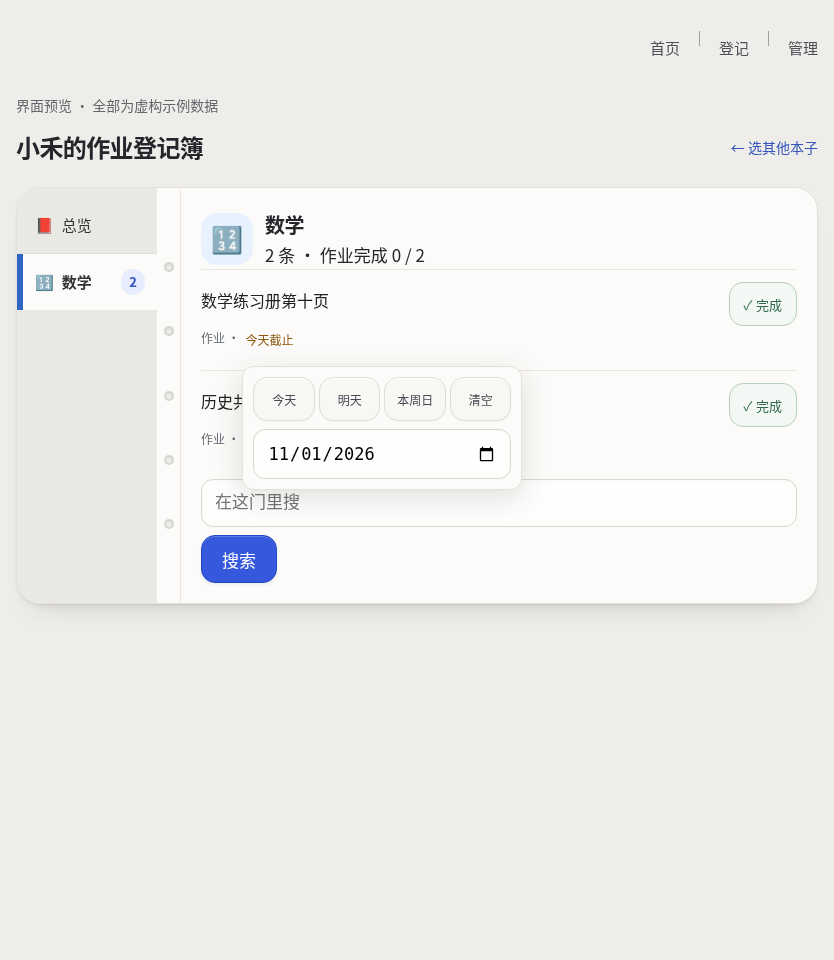
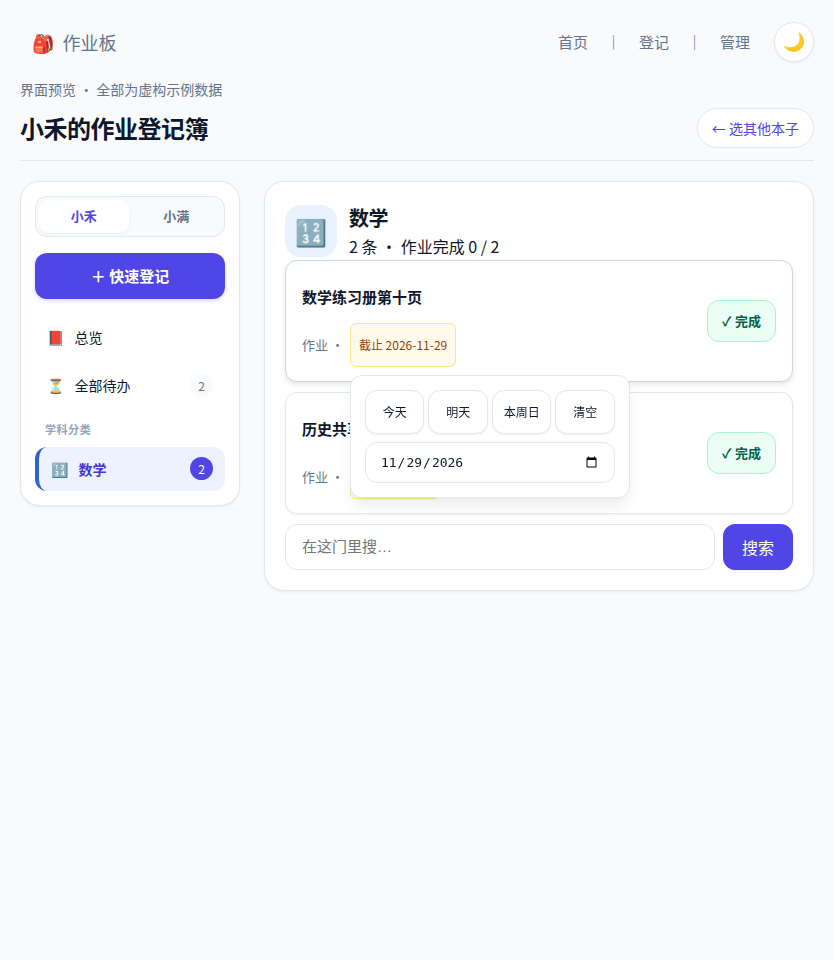
Address review: drawer from title, progressive quick-add, compact chrome
- Detail drawer opens from the row title; Ctrl/Cmd/Shift click and
  no-JS follow the plain link to the detail page. The separate
  preview button is gone.
- Quick-add is a plain link to /register; JS intercepts it to open
  the dialog, so it works without JS.
- Quick-add defaults to the subject of the current subject page; on
  the overview it reuses the last subject picked (localStorage).
- Brand moved from the sidebar to the top bar; the overview
  subject-links card is removed (the sidebar already counts them);
  on mobile the pill bar sticks to the top while the brand bar
  scrolls away.
- theme-color is split per prefers-color-scheme (light #f8fafc,
  dark #0b0f19).
- Restore 44px touch targets the Bento restyle shrank (row title,
  quick-due summary, due preset buttons) and stop the no-JS
  quick-due form overflowing at 320px; update browser_child_edit
  for the drawer flow.
- Re-shoot docs/previews with the new UI.

diff --git a/static/paper.css b/static/paper.css
@@ -194,14 +194,14 @@ button:focus-visible, a:focus-visible, input:focus-visible, select:focus-visible
 .topnav {
   display: flex;
   align-items: center;
-  justify-content: flex-end;
+  justify-content: space-between;
   gap: 12px;
   padding: 6px 0 16px;
   font-size: 15px;
   color: var(--text-muted);
 }
 .topnav-brand {
-  display: none;
+  display: flex;
   align-items: center;
   gap: 8px;
   font-size: 18px;
@@ -216,6 +216,7 @@ button:focus-visible, a:focus-visible, input:focus-visible, select:focus-visible
   display: flex;
   align-items: center;
   gap: 6px;
+  margin-left: auto;
 }
 .topnav a {
   display: inline-flex;
@@ -431,25 +432,6 @@ button:focus-visible, a:focus-visible, input:focus-visible, select:focus-visible
   position: sticky;
   top: 16px;
 }
-.sidebar-brand {
-  margin-bottom: 12px;
-  padding: 4px 6px;
-}
-.sidebar-brand-link {
-  display: flex;
-  align-items: center;
-  gap: 8px;
-  font-size: 17px;
-  font-weight: 700;
-  color: var(--text);
-  text-decoration: none;
-}
-.sidebar-brand-link:hover {
-  color: var(--primary);
-}
-.sidebar-brand-icon {
-  font-size: 20px;
-}
 .sidebar-child-switcher {
   display: flex;
   background: var(--bg);
@@ -631,7 +613,7 @@ button:focus-visible, a:focus-visible, input:focus-visible, select:focus-visible
 }
 .row .t { flex: 1; min-width: 0; }
 .row .t .item-title {
-  min-height: 32px;
+  min-height: 44px;
   display: inline-flex;
   align-items: center;
   font-size: 15px;
@@ -669,26 +651,6 @@ button:focus-visible, a:focus-visible, input:focus-visible, select:focus-visible
   color: #fff;
   border-color: var(--success);
 }
-.row .item-preview-btn {
-  display: inline-flex;
-  align-items: center;
-  justify-content: center;
-  min-height: 26px;
-  padding: 1px 8px;
-  font-size: 12px;
-  font-weight: 500;
-  border-radius: 6px;
-  border: 1px solid var(--card-border);
-  background: var(--bg);
-  color: var(--text-muted);
-  cursor: pointer;
-  transition: all 0.15s ease;
-}
-.row .item-preview-btn:hover {
-  background: var(--primary-light);
-  color: var(--primary);
-  border-color: var(--primary-border);
-}
 .row.is-done { opacity: .6; }
 .row.is-done .t a { text-decoration: line-through; }
 
@@ -702,7 +664,7 @@ button:focus-visible, a:focus-visible, input:focus-visible, select:focus-visible
 .quick-due > summary {
   display: inline-flex;
   align-items: center;
-  min-height: 28px;
+  min-height: 44px; /* 44px touch target, as before the restyle */
   line-height: 1.4;
   padding: 2px 8px;
   border-radius: 6px;
@@ -731,8 +693,10 @@ button:focus-visible, a:focus-visible, input:focus-visible, select:focus-visible
   box-sizing: border-box;
 }
 .js-quick-due .quick-due-form { position: absolute; }
+/* Without JS the form stays in flow: cap it at its container instead of 280px. */
+.quick-due:not(.js-quick-due) .quick-due-form { width: auto; max-width: 100%; }
 .due-presets { display: flex; gap: 4px; flex-wrap: wrap; margin-bottom: 8px; }
-.due-presets button { flex: 1; min-width: 48px; min-height: 36px; padding: 0 6px; font-size: 12px; }
+.due-presets button { flex: 1; min-width: 48px; min-height: 44px; padding: 0 6px; font-size: 12px; }
 .due-custom { display: flex; gap: 6px; align-items: center; }
 .due-custom input { flex: 1; min-height: 40px; margin: 0; font-size: 13px; }
 .js-due .due-save { display: none; }
@@ -1245,7 +1209,6 @@ dialog:not([open]) {
   .topnav-brand { display: flex; }
   .topnav-links { display: none; }
   .binder { flex-direction: column; gap: 14px; }
-  .sidebar-brand { display: none; }
   .sidebar-child-switcher { margin-bottom: 0; flex-shrink: 0; }
   .sidebar-child-tab { white-space: nowrap; padding: 6px 12px; }
   .binder-tabs {
@@ -1253,10 +1216,12 @@ dialog:not([open]) {
     overflow-x: auto;
     width: 100%;
     padding: 6px 4px;
-    background: transparent;
+    background: var(--bg);
     border: 0;
     box-shadow: none;
-    position: static;
+    position: sticky;
+    top: 0;
+    z-index: 80;
     scrollbar-width: none;
   }
   .binder-tabs::-webkit-scrollbar { display: none; }

diff --git a/static/paper.js b/static/paper.js
@@ -178,11 +178,28 @@ if (typeof HTMLDialogElement !== 'undefined' && typeof HTMLDialogElement.prototy
 }
 
 // Global Quick Add Modal
+// The trigger is a plain link to /register; with JS it opens the dialog instead.
 (() => {
   const dialog = document.getElementById('quick-add-dialog');
   if (!dialog) return;
-  document.querySelectorAll('[data-open-quick-add]').forEach(btn => {
-    btn.addEventListener('click', () => {
+  const subjectRadios = [...dialog.querySelectorAll('input[name="subject"]')];
+  function applySavedSubject() {
+    // A subject page already picked its subject; only the overview reuses the last one.
+    if (dialog.dataset.currentSubject) return;
+    let saved = null;
+    try { saved = localStorage.getItem('sb-qa-subject'); } catch (_) {}
+    if (!saved) return;
+    const match = subjectRadios.find(radio => radio.value === saved);
+    if (match) match.checked = true;
+  }
+  subjectRadios.forEach(radio => radio.addEventListener('change', () => {
+    try { localStorage.setItem('sb-qa-subject', radio.value); } catch (_) {}
+  }));
+  document.querySelectorAll('[data-open-quick-add]').forEach(trigger => {
+    trigger.addEventListener('click', event => {
+      if (typeof dialog.showModal !== 'function') return; // No dialog support: follow the link.
+      event.preventDefault();
+      applySavedSubject();
       dialog.showModal();
       const titleInput = dialog.querySelector('#qa-title');
       if (titleInput) titleInput.focus();
@@ -199,14 +216,16 @@ if (typeof HTMLDialogElement !== 'undefined' && typeof HTMLDialogElement.prototy
 })();
 
 // Item Detail Drawer
+// A plain title click opens the drawer; Ctrl/Cmd/Shift clicks and no JS follow the link.
 (() => {
   if (typeof HTMLDialogElement === 'undefined' || typeof window.fetch !== 'function') return;
-  document.querySelectorAll('.item-preview-btn').forEach(btn => {
-    btn.addEventListener('click', async event => {
+  document.querySelectorAll('.row a.item-title').forEach(link => {
+    link.addEventListener('click', async event => {
+      if (event.ctrlKey || event.metaKey || event.shiftKey || event.button !== 0) return;
       event.preventDefault();
-      const url = btn.dataset.previewUrl;
-      if (!url || btn.dataset.loading) return;
-      btn.dataset.loading = '1';
+      const url = link.href;
+      if (!url || link.dataset.loading) return;
+      link.dataset.loading = '1';
       try {
         const res = await fetch(url, {credentials: 'same-origin'});
         if (!res.ok) throw new Error('preview failed');
@@ -295,13 +314,13 @@ if (typeof HTMLDialogElement !== 'undefined' && typeof HTMLDialogElement.prototy
         });
         dialog.addEventListener('close', () => {
           dialog.remove();
-          btn.focus();
+          link.focus();
         }, {once: true});
         dialog.showModal();
       } catch (_) {
         location.assign(url);
       } finally {
-        delete btn.dataset.loading;
+        delete link.dataset.loading;
       }
     });
   });

diff --git a/app.py b/app.py
@@ -654,7 +654,7 @@ input[type=checkbox]{width:20px;height:20px;accent-color:var(--primary)}
 .form-note{margin:0 0 10px;color:var(--text-muted);font-size:13px}.draft-error{color:var(--danger);font-size:14px;margin:8px 0}.draft-card.has-error{border-color:var(--danger)}
 .draft-card label{display:block;font-size:14px;color:var(--text-muted)}.draft-card label input,.draft-card label select,.draft-card label textarea{display:block}
 .binder-tab[aria-current=page]{font-weight:700}.notebook-main:focus-visible{outline-offset:-5px}
-.topnav-brand{display:none;align-items:center;gap:6px;font-weight:700;font-size:17px;color:var(--text);text-decoration:none}
+.topnav-brand{display:flex;align-items:center;gap:6px;font-weight:700;font-size:17px;color:var(--text);text-decoration:none}
 .topnav-brand:hover{color:var(--primary)}
 @media(max-width:767px){.topnav{display:flex;justify-content:space-between;align-items:center;padding:8px 0 12px}.topnav-brand{display:flex}.topnav-links{display:none}.notebooks{grid-template-columns:1fr;gap:14px;margin-top:4px}.notebook-main{min-height:0;padding:18px}.notebook-top{margin-bottom:10px}.notebook h2{font-size:21px}.notebook-summary{margin-top:10px}.notebook-next{margin-top:12px}.notebook-footer{padding:4px 18px}.book-context{margin:0 0 6px}.entry-section.card{margin-top:10px}.entry-switch{margin:10px 0}.binder-tabs{flex-direction:row;overflow-x:auto;width:auto;background:transparent;border:0;padding:0}.binder-tab{border-radius:999px;border:1px solid var(--card-border);background:var(--card-bg);min-width:100px;flex-shrink:0}.entry-switch button{padding:0 10px;font-size:16px}}
 """
@@ -675,13 +675,14 @@ def pwa_version():
     return digest.hexdigest()[:16]
 
 
-def quick_add_modal(child=0):
+def quick_add_modal(child=0, subject=''):
     session = VIEW_SESSION.get()
     children = view_children()
     if not children:
         return ""
     student = session and session["role"] == "student"
     subjects = get_subjects()
+    default_subject = subject if subject in subjects else '语文'
     child_id = session["child_id"] if student else (child or (children[0]["id"] if children else 0))
     child_field = ""
     if not student and len(children) > 1:
@@ -691,12 +692,12 @@ def quick_add_modal(child=0):
         child_field = f"<input type='hidden' name='child_id' value='{child_id}'>"
 
     subj_chips = "".join(
-        f"<label class='chip'><input type='radio' name='subject' value='{esc(s)}' {'checked' if s == '语文' else ''}> {esc(s)}</label>"
+        f"<label class='chip'><input type='radio' name='subject' value='{esc(s)}' {'checked' if s == default_subject else ''}> {esc(s)}</label>"
         for s in subjects)
 
     cur_today = today()
     cur_tomorrow = (date.fromisoformat(cur_today) + timedelta(days=1)).isoformat()
-    return (f"<dialog id='quick-add-dialog' class='quick-add-dialog' aria-label='快速登记作业'>"
+    return (f"<dialog id='quick-add-dialog' class='quick-add-dialog' aria-label='快速登记作业' data-current-subject='{esc(subject)}'>"
             "<header class='qa-header'><h3>＋ 快速登记作业</h3><button type='button' class='qa-close' aria-label='关闭'>×</button></header>"
             f"<form method='post' action='/add' enctype='multipart/form-data' class='qa-form'>"
             f"{child_field}"
@@ -736,7 +737,8 @@ def page(title, body):
             "<link rel='manifest' href='/manifest.json'>"
             "<link rel='icon' type='image/png' sizes='192x192' href='/icon-192.png'>"
             "<link rel='apple-touch-icon' href='/apple-touch-icon.png'>"
-            "<meta name='theme-color' content='#4f46e5'>"
+            "<meta name='theme-color' media='(prefers-color-scheme: light)' content='#f8fafc'>"
+            "<meta name='theme-color' media='(prefers-color-scheme: dark)' content='#0b0f19'>"
             "<meta name='apple-mobile-web-app-capable' content='yes'>"
             "<meta name='apple-mobile-web-app-title' content='登记簿'>"
             "<meta name='apple-mobile-web-app-status-bar-style' content='default'></head><body>"
@@ -868,10 +870,8 @@ def compact_row(it, child=0, show_subject=False):
         done_btn = (f"<form method='post' action='/done' style='margin:0'>"
                     f"<input type='hidden' name='id' value='{it['id']}'><input type='hidden' name='done' value='1'>"
                     f"<button class='done small' aria-label='标为已完成：{esc(it['title'])}{'（所有本子共享状态）' if not it.get('child_id') else ''}'>✓ 完成</button></form>")
-    context = f"&child={child}" if child else ""
-    preview_btn = f"<button type='button' class='item-preview-btn' data-preview-url='/item?id={it['id']}{context}' aria-label='查看详情：{esc(it['title'])}'>详情</button>"
     return (f"<div class='row' data-item-id='{it['id']}'><div class='t'>{item_title(it, child)}"
-            f"<div class='meta'>{meta} {preview_btn}</div>{item_actions(it, child)}</div>{done_btn}</div>")
+            f"<div class='meta'>{meta}</div>{item_actions(it, child)}</div>{done_btn}</div>")
 
 
 def item_card(it, children, detail=False, child=0):
@@ -1039,14 +1039,10 @@ def child_chips(children, child, view=""):
 
 
 def binder_tabs(subjects, per_subject, active, child, view, children=None, pending_count=0, is_pending=False):
-    """活页夹/侧边栏：品牌 + 孩子切换 + 快速登记 + 导航过滤(总览/待办) + 学科分类。"""
+    """活页夹/侧边栏：孩子切换 + 快速登记 + 导航过滤(总览/待办) + 学科分类。品牌在顶栏。"""
     session = VIEW_SESSION.get()
     is_student = session and session['role'] == 'student'
     tabs = []
-
-    # 品牌标识
-    tabs.append("<div class='sidebar-brand'><a href='/' class='sidebar-brand-link'>"
-                "<span class='sidebar-brand-icon'>🎒</span><span class='sidebar-brand-text'>作业板</span></a></div>")
 
     # 多孩子即时切换（当存在多个孩子且非学生角色时）
     if children and len(children) > 1 and not is_student:
@@ -1057,8 +1053,8 @@ def binder_tabs(subjects, per_subject, active, child, view, children=None, pendi
                                f"aria-current='{'page' if c['id'] == child else 'false'}'>{esc(c['name'])}</a>")
         tabs.append("<div class='sidebar-child-switcher' role='tablist' aria-label='切换孩子的本子'>" + "".join(child_pills) + "</div>")
 
-    # 高优先级快速登记按钮
-    tabs.append("<button type='button' class='sidebar-quick-add' data-open-quick-add aria-label='快速登记作业'>＋ 快速登记</button>")
+    # 高优先级快速登记入口：无 JS 时走登记页，有 JS 时拦截开弹窗。
+    tabs.append(f"<a class='sidebar-quick-add' href='/register{qs(child)}' data-open-quick-add aria-label='快速登记作业'>＋ 快速登记</a>")
 
     # 核心导航过滤（总览与全部待办）
     is_overview = (not active and not is_pending)
@@ -1223,7 +1219,7 @@ def kid_page(params):
         per_subject[s] = [i for i in items if i["subject"] == s]
     is_pending = (params.get("pending", [""])[0] == "1")
     tabs = binder_tabs(subjects, per_subject, subject, child, view, children=children, pending_count=len(stats["pending"]), is_pending=is_pending)
-    qa_modal = quick_add_modal(child)
+    qa_modal = quick_add_modal(child, subject)
     if is_pending:
         pane = ("<div class='bento-card'><h2>全部待办</h2><p class='muted'>按截止日期排序，未设日期排在最后。</p>"
                 + "".join(compact_row(i, child, show_subject=True) for i in stats["pending"])
@@ -1286,24 +1282,6 @@ def kid_page(params):
         widgets += ("<div class='bento-card'><h3 style='margin-top:0'>📌 提醒</h3>" +
                     "".join(f"<p style='margin:6px 0'><a href='/item?id={i['id']}{('&child=' + str(child)) if child else ''}'>{esc(i['title'])}</a></p>"
                             for i in pins) + "</div>")
-
-    has_sub = False
-    subjects_html = "<div class='bento-card'><h3 style='margin-top:0'>各科速览</h3><div class='subject-links-grid'>"
-    for s in subjects:
-        sub = per_subject.get(s, [])
-        if not sub:
-            continue
-        has_sub = True
-        icon, bg, color = subject_meta(s)
-        hw_s = [i for i in sub if i["kind"] == "homework"]
-        sub_line = (f"作业 {sum(1 for i in hw_s if i['done'])} / {len(hw_s)}"
-                    if hw_s else f"{len(sub)} 条")
-        subjects_html += (f"<a class='subject-link' href='/{qs(child, subject=s, view=view)}'>"
-                          f"<span aria-hidden='true'>{icon}</span><span class='t'>{esc(s)}<small>{sub_line}</small></span>"
-                          "<span class='arrow' aria-hidden='true'>→</span></a>")
-    subjects_html += "</div></div>"
-    if has_sub:
-        widgets += subjects_html
 
     bento_side = f"<div class='bento-side'>{widgets}</div>"
     pane = f"<div class='bento-layout'>{bento_main}{bento_side}</div>"

diff --git a/tests/test_workflow.py b/tests/test_workflow.py
@@ -801,8 +801,16 @@ class LoginTests(unittest.TestCase):
         self.assertIn('sidebar-quick-add', parent_html)
         self.assertIn('sidebar-child-switcher', parent_html)
         self.assertIn('theme-toggle', parent_html)
-        self.assertIn('item-preview-btn', parent_html)
-        self.assertIn(f"data-preview-url='/item?id={own}&child=1'", parent_html)
+        self.assertIn('topnav-brand', parent_html)
+        self.assertNotIn('sidebar-brand', parent_html)
+        self.assertNotIn('item-preview-btn', parent_html)
+        # The row title itself opens the drawer; no separate preview button.
+        self.assertIn(f"<a class='item-title' href='/item?id={own}&child=1'>", parent_html)
+        # Quick-add is a plain register link; JS upgrades it to the dialog.
+        self.assertIn("<a class='sidebar-quick-add' href='/register?child=1'", parent_html)
+        # Theme color follows the system scheme.
+        self.assertIn("media='(prefers-color-scheme: light)' content='#f8fafc'", parent_html)
+        self.assertIn("media='(prefers-color-scheme: dark)' content='#0b0f19'", parent_html)
         # Parent with several children picks the child in the quick-add form.
         self.assertIn("<select id='qa-child'", parent_html)
         student = self.student()
@@ -812,6 +820,14 @@ class LoginTests(unittest.TestCase):
         # A student registers only to themself: hidden child field, no picker.
         self.assertNotIn("<select id='qa-child'", html)
         self.assertIn("name='child_id' value='1'", html)
+
+    def test_quick_add_defaults_to_current_subject(self):
+        subject_html = self.raw('/?child=1&' + urlencode({'subject': '数学'}),
+                                'GET', None, getattr(self, 'cookie'))[2]
+        self.assertIn("value='数学' checked", subject_html)
+        self.assertNotIn("value='语文' checked", subject_html)
+        overview_html = self.raw('/?child=1', 'GET', None, getattr(self, 'cookie'))[2]
+        self.assertIn("value='语文' checked", overview_html)
 
     def test_done_json_confirms_target_and_is_idempotent(self):
         own = self.item('完成反馈')

diff --git a/tests/browser_child_edit.py b/tests/browser_child_edit.py
@@ -74,6 +74,10 @@ with tempfile.TemporaryDirectory(prefix='board-child-edit-ui-') as directory, Ex
                 row.get_by_role('button', name='清空', exact=True).click()
                 assert app.get_item(own)['due'] == ''
                 edit.click()
+                # Title opens the detail drawer; the full page is one link away.
+                expect(page.get_by_role('dialog', name='作业详情')).to_be_visible()
+                expect(page).to_have_url(notebook_url)
+                page.get_by_role('link', name='打开全屏 ↗', exact=True).click()
                 expect(page).to_have_url(base + f'/item?id={own}&child=1')
                 expect(page.get_by_role('dialog')).to_have_count(0)
                 if role == 'parent' and width == 390:
